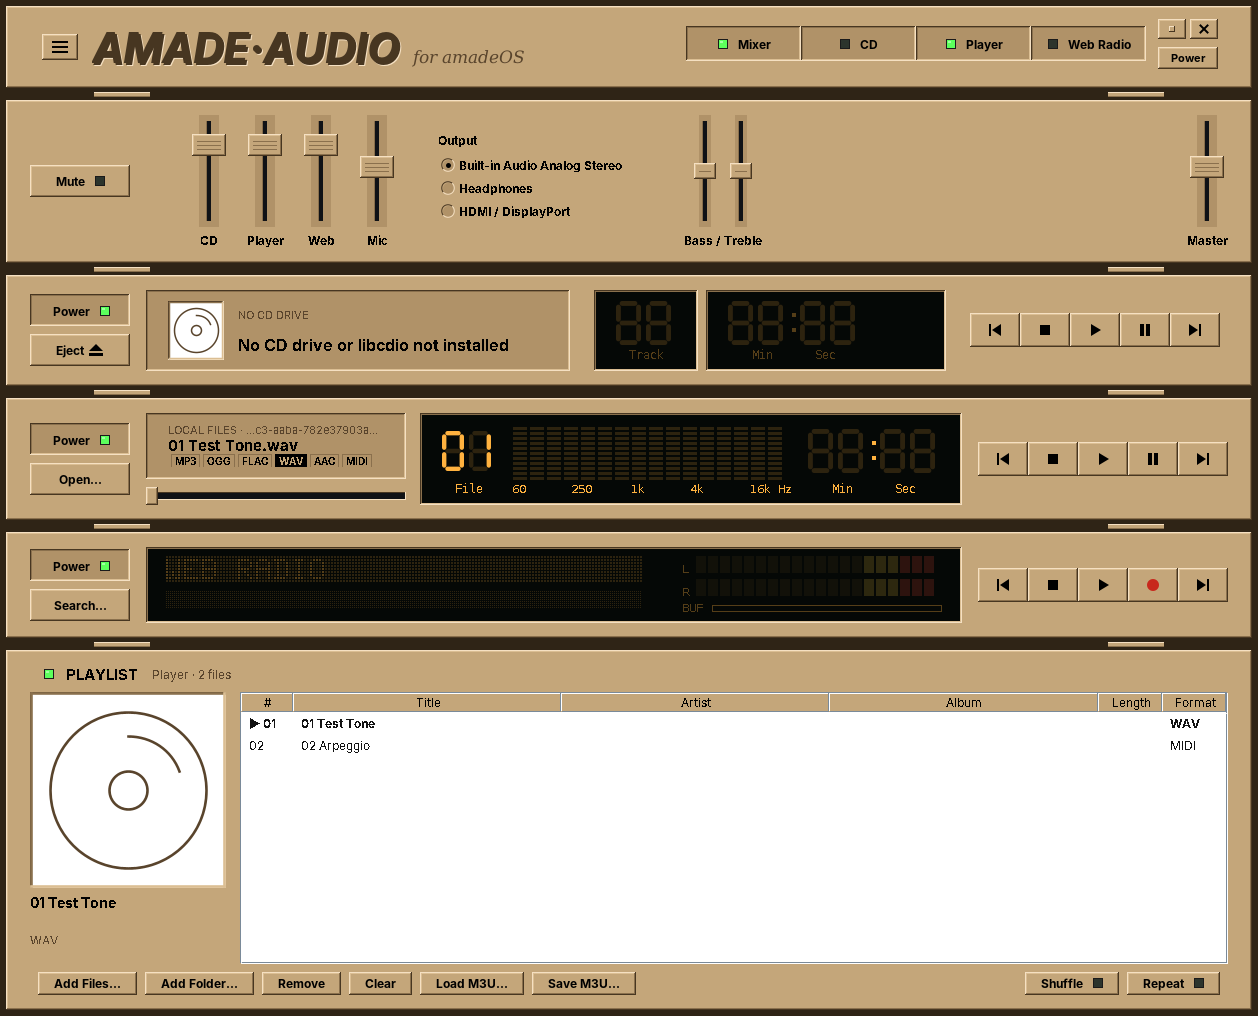
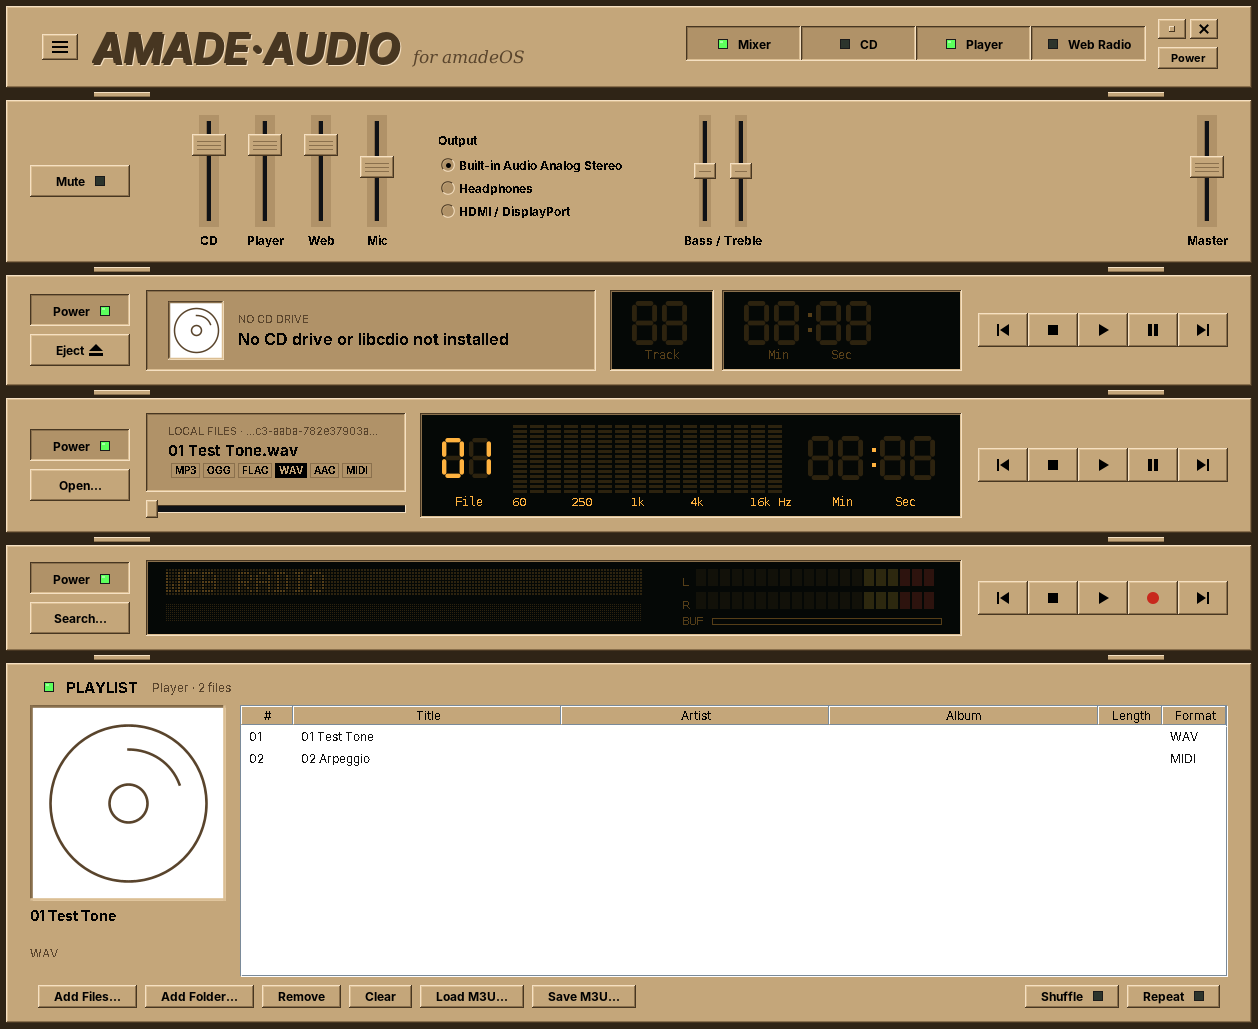
Fix cut-off labels and badges in the player rack
The player's file window had a fixed preferred height of 10 px, so the rack
was laid out too low and the format badges and the file name were cut off.
Its width stays fixed, the height now comes from the content; the info texts
of player and CD use their natural heights instead of equal grid rows.

Racks also keep their height on small screens: the window is never taller
than the screen, and only the playlist panel shrinks.

Claude-Session: https://claude.ai/code/session_01CdDBpJLV5yB3DpQ6z2k95d

diff --git a/src/main/java/org/datazuul/amadeos/audio/ui/rack/player/PlayerRack.java b/src/main/java/org/datazuul/amadeos/audio/ui/rack/player/PlayerRack.java
@@ -49,7 +49,12 @@ public final class PlayerRack extends RackPanel {
 
         JPanel info = RackPanel.infoWindow(new BorderLayout(0, 4));
         file.setFont(file.getFont().deriveFont(Font.BOLD, 15f));
-        JPanel badgeRow = new JPanel(new FlowLayout(FlowLayout.LEFT, 3, 0));
+        JPanel badgeRow = new JPanel(new FlowLayout(FlowLayout.LEFT, 3, 0)) {
+            @Override
+            public Dimension getMaximumSize() {
+                return getPreferredSize();
+            }
+        };
         badgeRow.setOpaque(false);
         ((FlowLayout) badgeRow.getLayout()).setAlignOnBaseline(true);
         for (String f : FORMATS) {
@@ -57,17 +62,25 @@ public final class PlayerRack extends RackPanel {
             badges.put(f, badge);
             badgeRow.add(badge);
         }
-        JPanel text = new JPanel(new GridLayout(3, 1, 0, 2));
+        JPanel text = new JPanel();
         text.setOpaque(false);
-        text.add(folder);
-        text.add(file);
-        text.add(badgeRow);
+        text.setLayout(new BoxLayout(text, BoxLayout.Y_AXIS));
+        for (JComponent c : new JComponent[]{folder, file, badgeRow}) {
+            c.setAlignmentX(LEFT_ALIGNMENT);
+            text.add(c);
+            text.add(Box.createVerticalStrut(3));
+        }
         info.add(text, BorderLayout.CENTER);
-        JPanel left = new JPanel(new BorderLayout(0, 8));
+        JPanel left = new JPanel(new BorderLayout(0, 8)) {
+            /** Fixed width, height from the content. */
+            @Override
+            public Dimension getPreferredSize() {
+                return new Dimension(260, super.getPreferredSize().height);
+            }
+        };
         left.setOpaque(false);
         left.add(info, BorderLayout.CENTER);
         left.add(seek, BorderLayout.SOUTH);
-        left.setPreferredSize(new Dimension(260, 10));
 
         JPanel numberBox = new JPanel(new BorderLayout());
         numberBox.setOpaque(false);

diff --git a/src/main/java/org/datazuul/amadeos/audio/ui/main/MainWindow.java b/src/main/java/org/datazuul/amadeos/audio/ui/main/MainWindow.java
@@ -74,8 +74,23 @@ final class MainWindow extends JFrame {
         Point location = isShowing() ? getLocation() : null;
         stack.revalidate();
         Dimension pref = stack.getPreferredSize();
-        setSize(new Dimension(Math.max(WIDTH, pref.width), pref.height));
+        Rectangle screen = usableScreen();
+        setSize(new Dimension(Math.max(WIDTH, pref.width), Math.min(pref.height, screen.height)));
         validate();
-        if (location != null) setLocation(location);
+        if (location != null) {
+            // Keep the bottom on the screen when the window grows.
+            int y = Math.min(location.y, screen.y + screen.height - getHeight());
+            setLocation(location.x, Math.max(screen.y, y));
+        }
+    }
+
+    /** The screen area without panels, of the screen the window is on. */
+    private Rectangle usableScreen() {
+        GraphicsConfiguration gc = getGraphicsConfiguration();
+        if (gc == null) gc = GraphicsEnvironment.getLocalGraphicsEnvironment().getDefaultScreenDevice().getDefaultConfiguration();
+        Rectangle bounds = gc.getBounds();
+        Insets insets = Toolkit.getDefaultToolkit().getScreenInsets(gc);
+        return new Rectangle(bounds.x + insets.left, bounds.y + insets.top,
+                bounds.width - insets.left - insets.right, bounds.height - insets.top - insets.bottom);
     }
 }

diff --git a/src/main/java/org/datazuul/amadeos/audio/ui/rack/cd/CdRack.java b/src/main/java/org/datazuul/amadeos/audio/ui/rack/cd/CdRack.java
@@ -43,11 +43,15 @@ public final class CdRack extends RackPanel {
         next = TransportIcon.button(Kind.NEXT, p::next);
 
         JPanel info = RackPanel.infoWindow(new BorderLayout(14, 0));
-        JPanel text = new JPanel(new GridLayout(2, 1, 0, 2));
+        JPanel text = new JPanel();
         text.setOpaque(false);
+        text.setLayout(new BoxLayout(text, BoxLayout.Y_AXIS));
         album.setFont(album.getFont().deriveFont(Font.BOLD, 16f));
+        text.add(Box.createVerticalGlue());
         text.add(source);
+        text.add(Box.createVerticalStrut(3));
         text.add(album);
+        text.add(Box.createVerticalGlue());
         info.add(cover, BorderLayout.WEST);
         info.add(text, BorderLayout.CENTER);
 

diff --git a/src/main/java/org/datazuul/amadeos/audio/ui/widget/RackPanel.java b/src/main/java/org/datazuul/amadeos/audio/ui/widget/RackPanel.java
@@ -13,6 +13,17 @@ public class RackPanel extends JPanel {
         setBorder(BorderFactory.createCompoundBorder(AmadeUI.raised(), BorderFactory.createEmptyBorder(10, 14, 10, 14)));
     }
 
+    /** Racks keep their height; only the playlist panel shrinks on small screens. */
+    @Override
+    public Dimension getMinimumSize() {
+        return new Dimension(super.getMinimumSize().width, getPreferredSize().height);
+    }
+
+    @Override
+    public Dimension getMaximumSize() {
+        return new Dimension(Short.MAX_VALUE, getPreferredSize().height);
+    }
+
     @Override
     protected void paintComponent(Graphics g) {
         g.setColor(AmadeUI.theme().base());

diff --git a/src/main/java/org/datazuul/amadeos/audio/ui/playlist/PlaylistPanel.java b/src/main/java/org/datazuul/amadeos/audio/ui/playlist/PlaylistPanel.java
@@ -58,6 +58,16 @@ public final class PlaylistPanel extends RackPanel {
         setPreferredSize(new Dimension(100, HEIGHT));
     }
 
+    @Override
+    public Dimension getMinimumSize() {
+        return new Dimension(100, 180);
+    }
+
+    @Override
+    public Dimension getMaximumSize() {
+        return new Dimension(Short.MAX_VALUE, Short.MAX_VALUE);
+    }
+
     /** Registers a device's view. */
     public void addView(SourceId id, Header header, JComponent view) {
         headers.put(id, header);
